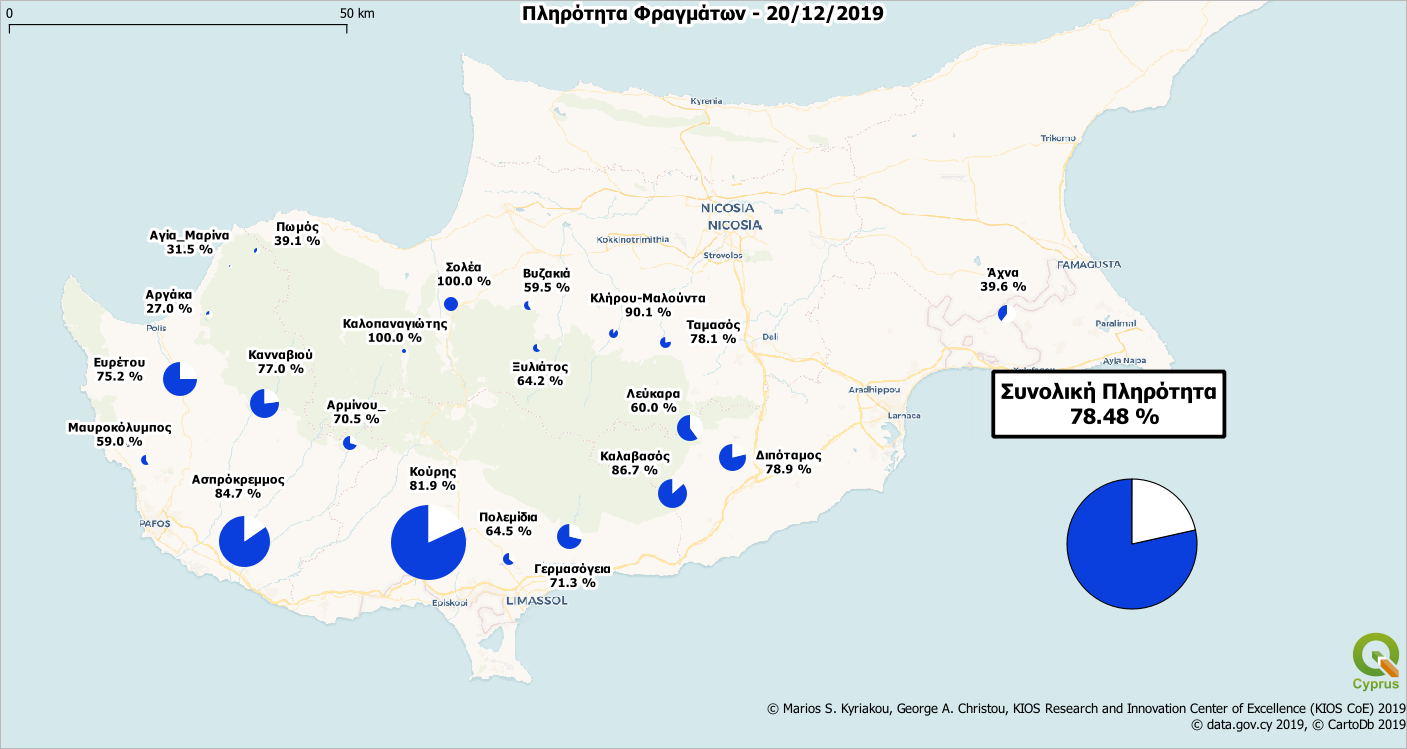
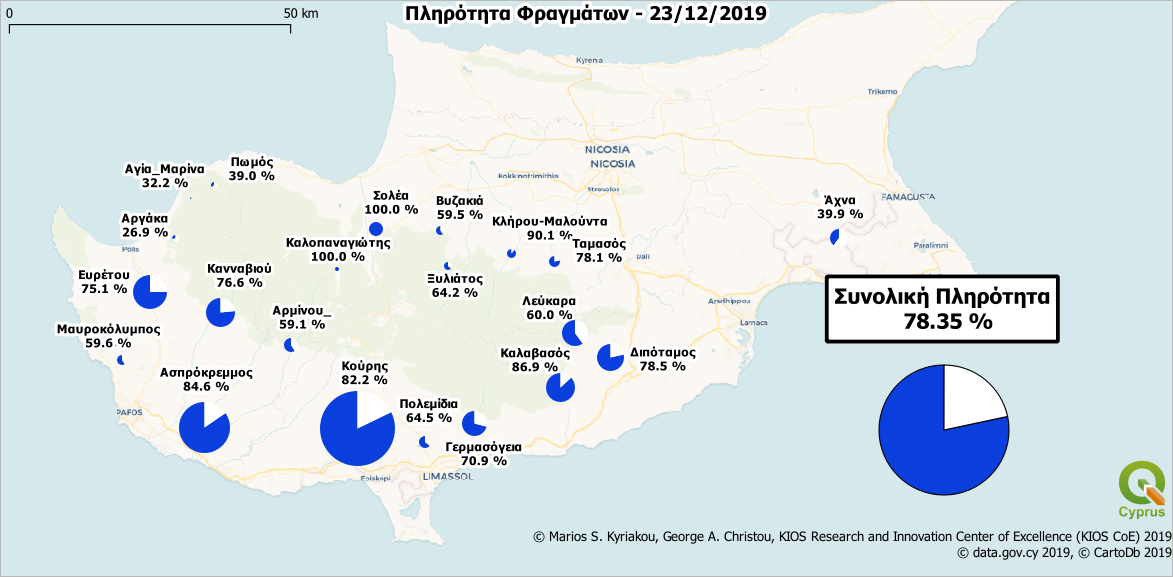
update

diff --git a/dams.html b/dams.html
@@ -1,0 +1,14 @@
+<style>
+      th, td {
+      border: 1px solid black;
+      }
+     table tr:first-child{
+        background:#dddddd;
+    }
+    .border-white{
+      /*border white with light shadow*/
+      text-shadow: 
+         1px  1px 7px WHITE;
+    }
+    }
+    </style><p><b>Ημερομηνία ανανέωσης δεδομένων: 3/4/2019<p><font color="#0000FF">Η συνολική πληρότητα στα φράγματα είναι 91.79%</font>.<p>Υπάρχουν συνολικά <font color="#0000FF">4</font> φράγματα με πληρότητα <font color="#0000FF">100%</font>.<p>Υπάρχουν <font color="#0000FF">20</font> φράγματα με πληρότητα πάνω από <font color="#0000FF">50%</font>.</b><p><b>Υπάρχουν δεδομένα για 21 φράγματα. Συνολικά υπάρχουν 108 φράγματα. 
